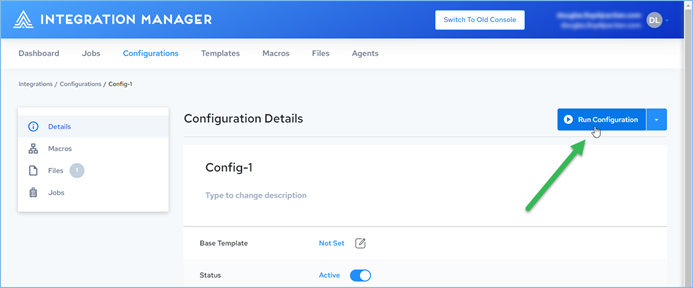
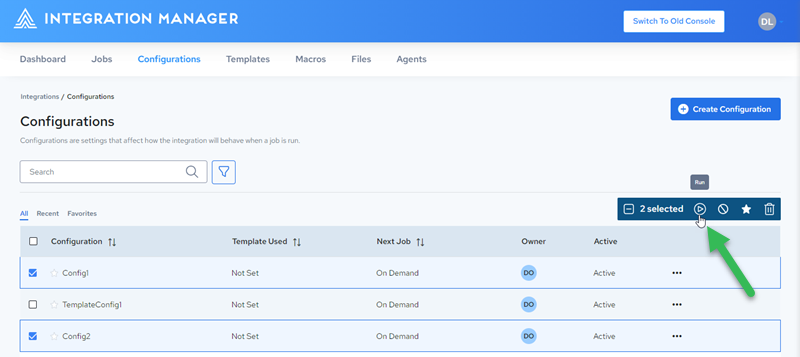
Updates for 3.2

Changed region(s): [[0.0, 0.0, 1.0, 1.0], [0.0, 0.25, 0.4545, 0.5312], [0.2727, 0.5625, 0.3636, 0.5938]]

diff --git a/docs/integration-manager/configurations/running-configurations.md b/docs/integration-manager/configurations/running-configurations.md
@@ -8,32 +8,23 @@ tags:
 Configurations can be run manually or on a schedule. An integration is executed when you run an associated configuration. When completed, runtime metrics will be available for review. 
 
 :::note
-
 To run a configuration, it must be in the Active state. See [Activating or Inactivating Configurations](./activating-or-inactivating-configurations).
-
 :::
 
 ## Running a Configuration Manually
 
 1. Select the **Configurations** tab.
 2. Do one of the following:
-   - Click the **Run** button that is displayed for that configuration:
+   * To run a single configuration, click the ellipsis button next to the desired configuration and select **Run**:
 
        ![Configuration Run 1](/img/Configuration-Run1.png)
 
-   - Click the configuration name to go to the Configuration Details page, review the displayed information and make changes if required, then click the **Run Configuration** button:
+   - To run multiple configurations, select the checkbox next to the desired configurations and click <img src="/img/icons/run.png" className="icon" alt="the Run icon"/>:
 
        ![Configuration Run 2](/img/Configuration-Run2.png)
 
 3. The associated integration is executed and you are navigated to the **Jobs** page, where you can track the execution status of your Configuration Job. See [Viewing Job Run History](../jobs/viewing-job-run-history).
 
-
-
-:::tip
-
-To run multiple configurations, select the checkboxes to the left of each configuration that you want to run, then click the common **Run** button that appears on the top right.
-
-:::
 
 ## Running a Configuration on a Schedule
 
@@ -45,7 +36,7 @@ Schedules can be set to automatically run a configuration on a defined schedule.
 Running a configuration with a message allows you to pass a message object/body into a DataConnect job at runtime. The message object has a default name of “msg1” and the body (msg1.body) contents are specified within the **Run with Message** dialog. There must be a reference to “msg1” within your DataConnect djar to run a configuration with a message.
 
 1. Do one of the following:
-   * From the **Configurations** page, click the dropdown arrow next to the **Run** button for the desired configuration, then select **Run with Message**:
+   * From the **Configurations** page, click the ellipsis button next to the desired configuration and select **Run with Message**:
 
        ![](/img/Run-With-Message1.png)
 
@@ -67,7 +58,7 @@ Running a job with an input file allows you to...
 </font>
 
 1. Do one of the following:
-   * From the **Configurations** page, click the dropdown arrow next to the **Run** button for the desired configuration, then select **Run with File**:
+   * From the **Configurations** page, click the ellipsis button next to the desired configuration and select **Run with File**:
 
        ![](/img/Run-With-File1.png)
 
@@ -82,4 +73,4 @@ Running a job with an input file allows you to...
 
    ![](/img/Run-With-File-Dialog2.png)
 
-    <font color="red">Not sure what type of file would typically be used here. Need to select an appropriate file type for a real-world use case.</font>
+    <font color="red">Not sure what type of file would typically be used here. Is there a better file type for a real-world use case?</font>
